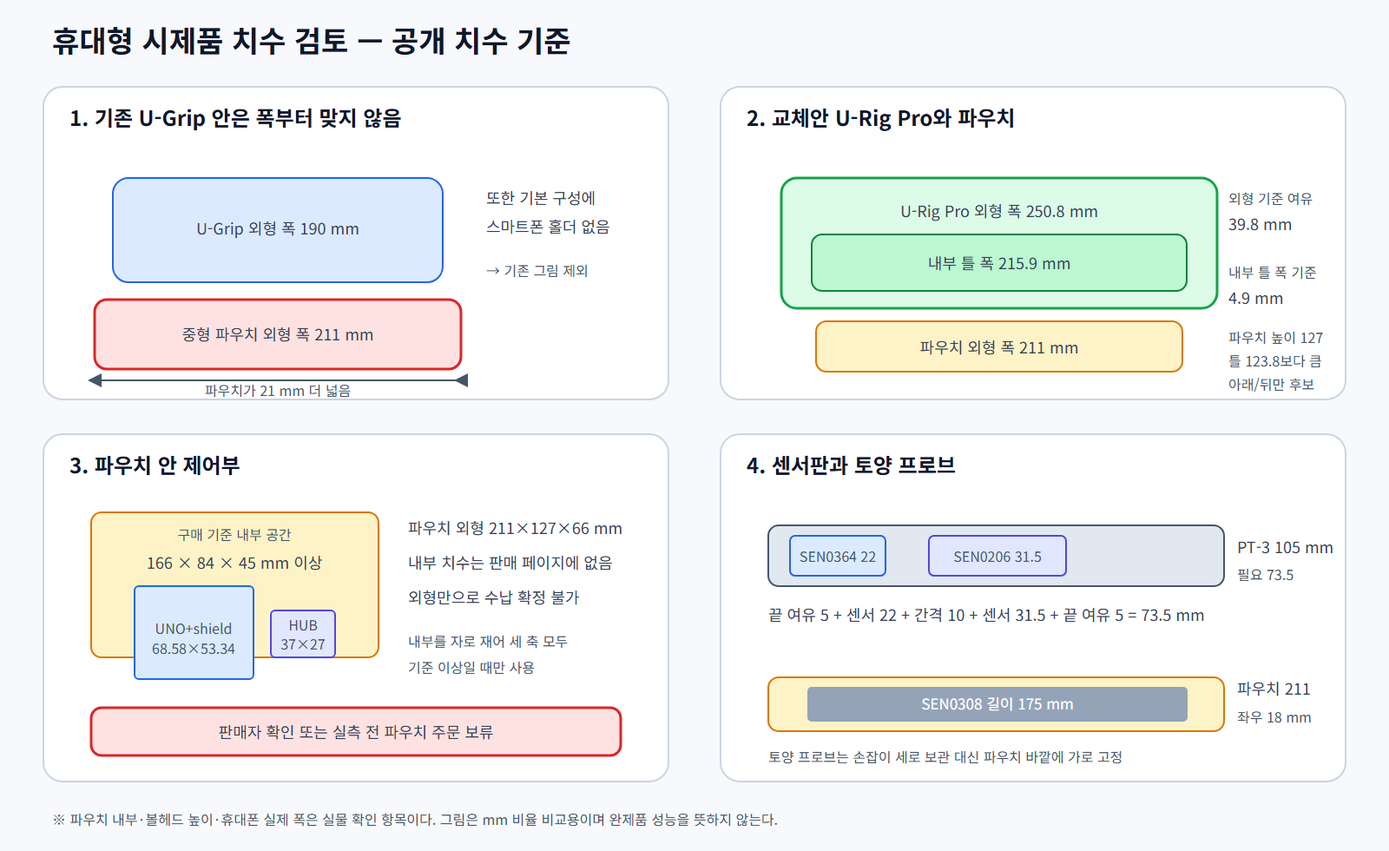
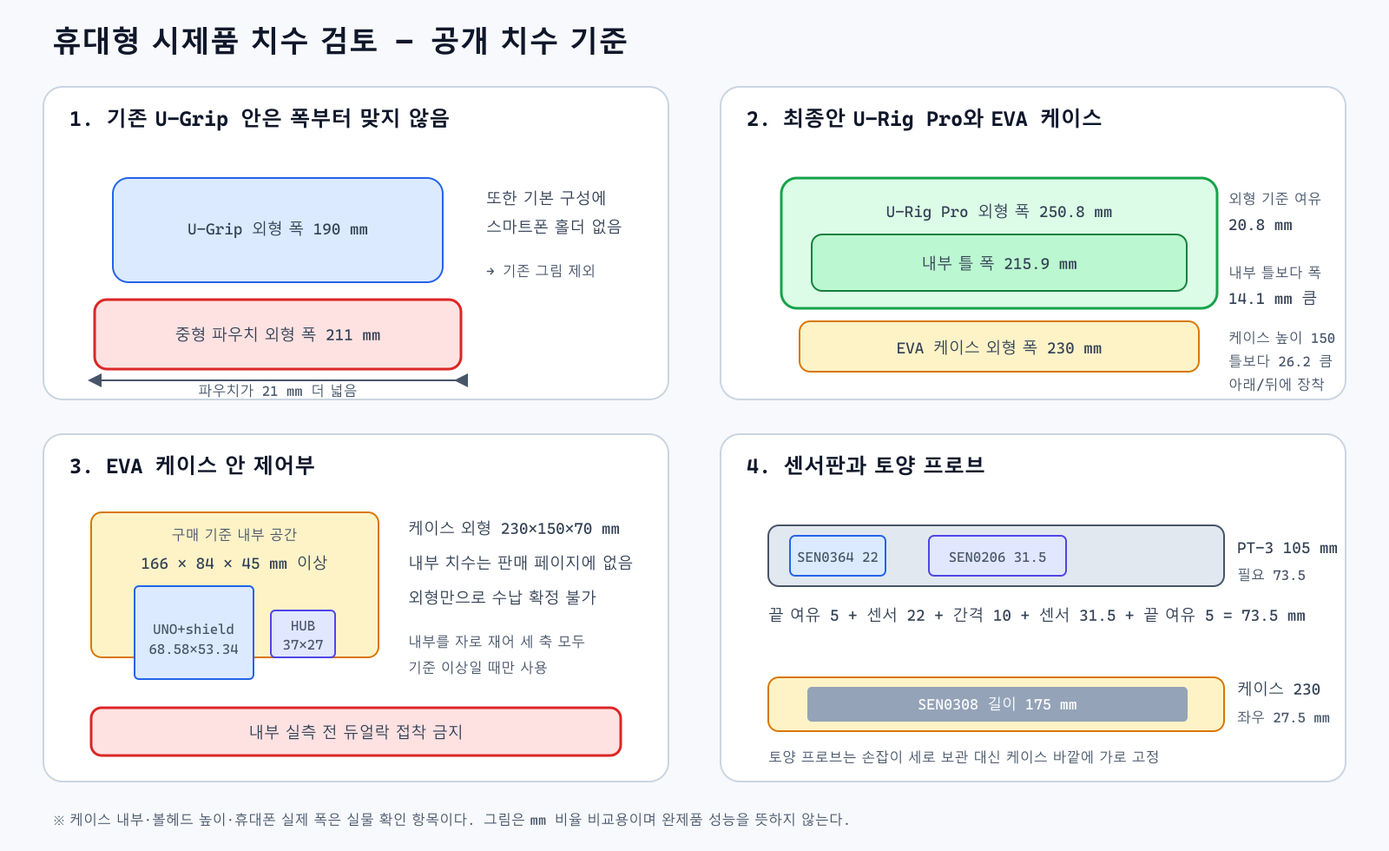
docs: finalize verified purchase plan

diff --git a/docs/PURCHASE_PLAN.md b/docs/PURCHASE_PLAN.md
@@ -1,77 +1,68 @@
-# 구매안과 총 결제 예상액
+# 최종 구매 목록과 결제 예상액
 
-확인일: 2026-09-20. 주문·결제 전 판매 페이지 표시가를 기준으로 계산했다. 쿠폰·적립금은 차감하지 않았고, 일반 내륙 배송을 전제로 했다. Codex는 사용자 확정 단가인 1개 159,000원을 적용했다. 가격·재고·묶음배송은 결제 직전 장바구니에서 다시 확인한다.
+확인일: 2026-09-20. 아래 금액은 판매 페이지에서 다시 확인한 표시가와 일반 내륙 배송비를 합산한 **보수적 결제 예상액**이다. 쿠폰·적립금·와우회원 무료배송은 적용하지 않았다. 결제 직전 선택 옵션, 재고, 배송비를 다시 대조하고 영수증에는 실제 카드 승인액을 기록한다.
 
-이 문서는 **현재 허용된 품목의 실제 구매 예상액**이다. 과거 제출안의 조건부 상한 491,890원과 합치거나 500,000원을 모두 쓰기 위한 표가 아니다. 과거 491,890원 안에는 이후 제외한 전자저울·검증 전 광원·암백·굴절계와 견적 전 제작·배송 상한이 들어 있다. 그 안에 Codex 159,000원을 단순 추가하면 650,890원으로 지원금을 150,890원 초과하므로 현재 구매안으로 사용할 수 없다.
+## 1. 전자부품·계정
 
-## 먼저 결제할 공통 항목
+| 번호 | 품목·정확한 모델 | 수량 | 상품가 | 배송비 반영 | 결제 예상 | 상세 판매 URL | 결제 전 확인 |
+|---:|---|---:|---:|---:|---:|---|---|
+| 1 | Arduino UNO R4 Minima, ABX00080 | 1 | 29,600원 | 3,500원 | **33,100원** | [로봇사이언스](https://robotscience.kr/goods/view?no=20942) | 국내 재고 표시와 ABX00080 확인 |
+| 2 | Gravity IO Expansion Shield V7.1, DFR0265 | 1 | 8,910원 | 2,700원 | **11,610원** | [디바이스마트](https://www.devicemart.co.kr/goods/view?no=1111779) | 아래 DFR0759와 한 주문. 평균 1주·주문품·반품 제한 확인 |
+| 3 | Gravity I2C HUB, DFR0759 | 1 | 2,640원 | 위 주문에 포함 | **2,640원** | [디바이스마트](https://www.devicemart.co.kr/goods/view?no=13192218) | 제조사 구성품의 4핀 I2C 케이블 1개 포함 여부를 수령 때 확인 |
+| 4 | Gravity 방수 정전용량 토양수분 센서, SEN0308 | 1 | 24,090원 | 4종 묶음 무료 | **24,090원** | [아이씨뱅큐](https://www.icbanq.com/P011849207) | 1.5 m 일체형 3핀 케이블·아날로그 출력 제품 |
+| 5 | Gravity SHT31-F 온습도 센서, SEN0334 | 1 | 15,950원 | 위와 묶음 | **15,950원** | [아이씨뱅큐](https://www.icbanq.com/P011442766) | 4핀 I2C 케이블 포함 제품인지 수령품 대조 |
+| 6 | Gravity AS7341 11채널 광학 센서, SEN0364 | 1 | 28,270원 | 위와 묶음 | **28,270원** | [아이씨뱅큐](https://www.icbanq.com/P013130496) | 4핀 I2C 케이블 포함 제품인지 수령품 대조 |
+| 7 | Gravity MLX90614 비접촉 표면온도 센서, SEN0206 | 1 | 29,810원 | 위와 묶음 | **29,810원** | [아이씨뱅큐](https://www.icbanq.com/P007606154) | JST PH2.0 4핀 케이블 포함 제품인지 수령품 대조 |
+| 8 | Coms USB-C↔USB-C 데이터 케이블 1 m, FC200 | 1 | 2,700원 | 3,000원 | **5,700원** | [컴스마트](https://www.comsmart.co.kr/cmart/shop/item.php?it_id=1601888323) | 충전 전용이 아닌 데이터 케이블 확인 |
+| 9 | Google Play 개발자 등록 | 1회 | 35,000원 예산 | 0원 | **35,000원** | [Google 공식 등록 안내](https://support.google.com/googleplay/android-developer/answer/6112435?hl=ko) | 공식 수수료는 USD 25. 원화 실제 승인액 기록 |
+| 10 | Codex 사용 예산 | 1개 | 159,000원 | 0원 | **159,000원** | [ChatGPT 공식 요금 페이지](https://chatgpt.com/pricing) | **사용자가 확정한 예산액**. 계정에서 실제 상품·기간·승인액 확인 |
+|  | **전자부품·계정 소계** |  |  |  | **345,170원** |  |  |
 
-| 품목 | 수량 | 상품가 | 배송비 | 구매 URL |
-|---|---:|---:|---:|---|
-| Arduino UNO R4 Minima / ABX00080 | 1 | 26,950원 | 3,000원 | [에듀이노](https://eduino.kr/product/detail.html?product_no=5054) |
-| Gravity DFR0265 V7.1 확장판 | 1 | 8,910원 | 2,700원 | [디바이스마트](https://www.devicemart.co.kr/goods/view?no=1111779) |
-| Gravity SEN0308 방수 토양수분 | 1 | 24,090원 | 센서 4종 묶음 무료 | [아이씨뱅큐](https://www.icbanq.com/P011849207) |
-| Gravity SEN0334 온습도 | 1 | 15,950원 | 위와 묶음 | [아이씨뱅큐](https://www.icbanq.com/P011442766) |
-| Gravity SEN0364 AS7341 광학 | 1 | 28,270원 | 위와 묶음 | [아이씨뱅큐](https://www.icbanq.com/P013130496) |
-| Gravity SEN0206 MLX90614 표면온도 | 1 | 29,810원 | 위와 묶음 | [아이씨뱅큐](https://www.icbanq.com/P007606154) |
-| Gravity DFR0759 I²C HUB | 1 | 15,200원 | 3,000원 | [일렉솔루션](https://elecsolution.co.kr/product/dfrobot-gravity-i2c-hub-dfr0759-디에프로봇/16496/) |
-| Coms FC200 USB-C 데이터 케이블 1 m | 1 | 2,700원 | 3,000원 | [컴스마트](https://www.comsmart.co.kr/cmart/shop/item.php?it_id=1601888323) |
-| **전자부품 상품 합계** | | **151,880원** | | |
-| **전자부품 배송 합계** | | | **11,700원** | 아이씨뱅큐 4종은 한 번에 주문 |
-| Google Play 개발자 등록 예산 | 1회 | 35,000원 | 0원 | [Google 공식 안내](https://support.google.com/googleplay/android-developer/answer/6112435?hl=ko) |
-| Codex 사용 예산 | 1개 | 159,000원 | 0원 | 사용자 확정 단가 |
-| **휴대형 기구 제외 공통 결제 예상액** | | **357,580원** | | |
+SEN0334·SEN0364·SEN0206은 제조사 출고 목록에 각각 4핀 I2C 케이블 1개가 포함되고, DFR0759에도 입력 연결용 4핀 케이블 1개가 포함된다. 따라서 판매처가 제조사 정품 구성 그대로 출고하면 별도 Gravity 케이블을 추가할 필요가 없다. 개봉 즉시 케이블 4개를 세어 보고, 누락됐을 때만 판매처에 구성품 누락을 문의한다.
 
-Google 공식 수수료는 USD 25다. 35,000원은 사용자가 정한 원화 예산이므로 카드의 실제 원화 승인액과 차이가 나면 정산표에는 승인액을 기록한다.
+## 2. 공구 없이 조립하는 휴대형 본체
 
-## 공구 없이 조립하는 휴대형 시제품
+| 번호 | 품목·선택 옵션 | 수량 | 상품가 | 배송비 반영 | 결제 예상 | 상세 판매 URL | 용도·확인 |
+|---:|---|---:|---:|---:|---:|---|---|
+| 11 | Ulanzi U-Rig Pro 스마트폰 비디오 리그 | 1 | 14,000원 | 무료 | **14,000원** | [쿠팡, item 21476334041](https://www.coupang.com/vp/products/7866103945?itemId=21476334041&vendorItemId=88530574086) | 휴대폰 케이스 포함 폭 50.8~88.9 mm인지 먼저 측정 |
+| 12 | EVA 하드 케이스 **23×15×7 cm** | 1 | 9,790원 | 무료 | **9,790원** | [쿠팡, item 22540917108](https://www.coupang.com/vp/products/7994370142?itemId=22540917108&vendorItemId=95318532894) | 외형 치수. 접착 전 내부 166×84×45 mm 이상인지 실측 |
+| 13 | 3M 듀얼락, 폭 25 mm·길이 50 cm×2개 | 1세트 | 7,860원 | 3,000원 | **10,860원** | [쿠팡, item 23419215213](https://www.coupang.com/vp/products/8187782258?itemId=23419215213&vendorItemId=90446254607) | 상품명과 상세의 길이 표기가 달라 **50 cm 2개 구성**을 결제 화면에서 확인 |
+| 14 | 편조 케이블 슬리브, 12 mm×1 m | 1 | 600원 | 3,000원 | **3,600원** | [쿠팡, 12 mm×1 m 옵션](https://www.coupang.com/vp/products/8730246303) | 선택 옵션 재확인 |
+| 15 | 미니 볼헤드·1/4인치 콜드슈 어댑터 | 1 | 1,890원 | 3,000원 | **4,890원** | [쿠팡](https://www.coupang.com/vp/products/8663301942) | 1/4인치 나사와 콜드슈 발 확인 |
+| 16 | Ulanzi PT-3 트리플 콜드슈 확장판 | 1 | 14,500원 | 3,000원 | **17,500원** | [쿠팡](https://www.coupang.com/vp/products/7852046163) | SEN0364·SEN0206 부착판 |
+| 17 | T형 탈부착 벨크로 케이블 타이 20개 | 1세트 | 4,600원 | 무료 | **4,600원** | [쿠팡](https://www.coupang.com/vp/products/9101303418) | 케이스·케이블·토양 프로브 고정 |
+|  | **휴대형 본체 소계** |  |  |  | **65,240원** |  |  |
 
-권총형 전용 외장이나 구멍 가공을 하지 않는다. 기존 U-Grip Pro는 스마트폰 홀더가 별도이고 폭 190 mm로 중형 파우치 211 mm보다 좁아 구매안에서 제외했다. 스마트폰 클램프가 내장된 U-Rig Pro에 지퍼형 전자기기 파우치를 벨크로로 묶고, 센서 보드는 콜드슈 확장판에 듀얼락으로 붙인다. 보드와 확장판은 손으로 눌러 결합하고 콜드슈 노브도 손으로 조인다. 아래 가격은 별도 배송이 생기는 경우까지 포함한 상한이다.
+하드 케이스는 U-Rig Pro의 중앙 촬영 공간 안에 넣지 않고 아래/뒤에 벨크로 타이로 고정한다. 판매 페이지가 내부 치수를 제공하지 않으므로 수령 후 내부 세 축을 재고, 기준을 통과하기 전에는 듀얼락을 붙이지 않는다. 케이블은 지퍼 틈으로 빼며 구멍을 뚫지 않는다.
 
-| 품목 | 용도 | 상품가 | 배송비 상한 | 결제 상한 | 구매 URL |
-|---|---|---:|---:|---:|---|
-| Ulanzi U-Rig Pro | 내장 휴대폰 클램프·양손 손잡이·콜드슈 바탕 | 14,000원 | 0원 | 14,000원 | [쿠팡, 테이크컴퍼니 판매](https://www.coupang.com/vp/products/7866103945?itemId=21476334041&vendorItemId=88530574086) |
-| Youngshion 전자기기 파우치 중형 | UNO·확장판·허브 수납. 내부 166×84×45 mm 이상 확인 전 주문 보류 | 12,900원 | 0원 | 12,900원 | [쿠팡, 외형 21.1×12.7×6.6 cm](https://www.coupang.com/vp/products/9337006917?categoryId=497063&itemId=27687497713&sourceType=CATEGORY&vendorItemId=94649407140) |
-| 3M 듀얼락 SJ3550 50 mm×5 cm | 파우치 안 보드·센서 보드 탈착 고정 | 650원 | 3,000원 | 3,650원 | [쿠팡](https://www.coupang.com/vp/products/8532075689) |
-| 편조 케이블 슬리브 12 mm×1 m | 센서선을 한 줄로 정리 | 600원 | 3,000원 | 3,600원 | [쿠팡](https://www.coupang.com/vp/products/8730246303) |
-| 미니 볼헤드·1/4인치 콜드슈 어댑터 | 확장판 각도 고정, 손노브 체결 | 4,990원 | 0원 | 4,990원 | [쿠팡](https://www.coupang.com/vp/products/8663301942) |
-| Ulanzi PT-3 트리플 콜드슈 | 광학·표면온도 보드 부착판 | 15,000원 | 2,500원 | 17,500원 | [쿠팡](https://www.coupang.com/vp/products/7852046163) |
-| T형 탈부착 벨크로 타이 20개 | 파우치·토양 프로브 고정 | 4,600원 | 0원 | 4,600원 | [쿠팡](https://www.coupang.com/vp/products/9101303418) |
-| **공구 없는 휴대형 시제품 합계** | | **52,740원** | **8,500원** | **61,240원** | |
+## 3. 흙·화분이 포함된 완성 식물 2개
 
-볼헤드는 아래 화분·배양토와 같은 로켓배송 주문에 담아 상품 합계 28,920원으로 무료배송 기준 19,800원을 넘기는 계산이다. 별도로 주문하거나 로켓배송 조건이 바뀌면 배송비가 추가된다. 휴대폰은 케이스를 씌운 폭이 U-Rig Pro 클램프 범위 50.8~88.9 mm인지 먼저 잰다. 파우치는 판매 페이지에 내부 치수가 없으므로 판매자 답변 또는 실물 내부가 166×84×45 mm 이상일 때만 사용한다. 지퍼 틈으로 케이블을 빼며, 물이 튀는 환경에서는 사용하지 않는다. 세부 산식은 [HARDWARE_FIT_CHECK](HARDWARE_FIT_CHECK.md)에 있다.
+| 번호 | 품목 | 수량 | 상품가 | 배송비 반영 | 결제 예상 | 상세 판매 URL | 용도·확인 |
+|---:|---|---:|---:|---:|---:|---|---|
+| 18 | 흙·화분 포함 방울토마토 완성 식물 | 1 | 4,000원 | 같은 판매자 묶음 4,000원 | **8,000원** | [엑스플랜트, 상품 1743415390](https://www.xplant.co.kr/item/1743415390) | 재고·구매 가능 표시. 기본 화분 모양과 크기는 달라질 수 있음 |
+| 19 | 흙·화분·받침 포함 스킨답서스, 표시 32×13×13 cm | 1 | 22,000원 | 위 묶음에 포함 | **22,000원** | [엑스플랜트, 상품 1716034533](https://www.xplant.co.kr/item/1716034533) | 같은 판매자 `플랜토피아`인지 확인해 배송 1회 적용 |
+|  | **완성 식물 소계** |  |  |  | **30,000원** |  |  |
 
-## 확정안: 식물 4개체, 대추방울토마토 2개체 + 바질 2개체
+두 식물은 2026-11-30까지 센서값이 들어오고 앱→서버→AI→결과 흐름이 동작함을 보여 주는 시연·참고 기록용이다. 모델 학습 표본 수나 독립 성능평가 표본으로 세지 않는다. 토양 프로브는 화분 흙에 무리 없이 들어가는 식물에서만 사용하고, 방울토마토 화분이 작거나 뿌리가 빽빽하면 스킨답서스에서 토양수분을 시연한다.
 
-작물마다 서로 다른 개체를 학습용 수집과 독립시험에 사용할 수 있도록 각 2개체로 구성한다. 판매 중인 대추방울토마토가 왜성·파티오 품종이라는 근거가 없으므로 토마토는 약 25 L 부직포 화분과 90 cm 지지대를 사용한다. 바질은 기존 18×25 cm 화분을 사용한다. 50 L 상토와 10 L 배양토를 함께 사서 최대 약 60 L를 확보한다.
+## 총액
 
-| 품목 | 수량 | 계산액 | 구매 URL |
-|---|---:|---:|---|
-| 대추방울토마토(빨강) 모종 | 2개 | 5,980원 | [옥션, 모종시장모종114](https://itempage3.auction.co.kr/DetailView.aspx?itemno=B829834013) |
-| 바질 허브 모종 | 2개 | 7,980원 | [옥션, 모종시장모종114](https://itempage3.auction.co.kr/DetailView.aspx?itemno=B822602679) |
-| 식물 묶음배송 | 1회 | 3,500원 | 같은 옥션 판매자 상품이며 두 판매 페이지 모두 묶음배송 가능 표시 |
-| 토마토용 부직포 화분 35호, 약 30×35×30 cm | 2개 | 13,480원 | [쿠팡, 세인화분 35호 옵션](https://www.coupang.com/vp/products/8272643213) |
-| 바질용 18×25 cm 화분+받침 | 2개 | 16,900원 | [쿠팡 데일드 2세트](https://www.coupang.com/vp/products/8675853865?vendorItemId=94615366568) |
-| 원예용 상토 50 L | 1개 | 14,400원 | [쿠팡 한아름 원예용 상토](https://www.coupang.com/vp/products/8373644053?vendorItemId=84423614460) |
-| 배양토 10 L | 1개 | 7,030원 | [쿠팡 Baroker 배양토](https://www.coupang.com/vp/products/8409428712?itemId=24313677839&vendorItemId=91329498657) |
-| 토마토 지지대 90 cm×8 mm | 2개 | 1,300원 | [쿠팡 파파가든](https://www.coupang.com/vp/products/7823366708?itemId=21256573273&vendorItemId=88317008741) |
-| 지지대 배송 | 1회 | 2,800원 | 판매 페이지 표시 배송비 |
-| 화분·10 L 흙·볼헤드 배송 | | 0원 | 같은 로켓배송 주문으로 무료배송 기준 확인 |
-| 50 L 상토 배송 | | 0원 | 판매 페이지 무료배송 표시 |
-| **식물·재배 준비 합계** | | **73,370원** | |
-| **휴대형 추가 전 총액** | | **430,950원** | |
-| **공구 없는 휴대형 시제품 포함 총 계획액** | | **492,190원** | 500,000원 중 7,810원 남음 |
+| 구분 | 금액 |
+|---|---:|
+| 전자부품·계정 | 345,170원 |
+| 휴대형 본체 | 65,240원 |
+| 완성 식물 2개 | 30,000원 |
+| **총 결제 예상액** | **440,410원** |
+| 학교 지원액 | 500,000원 |
+| **남는 예산** | **59,590원** |
 
-## 결론
+듀얼락 배송비 3,000원이 장바구니 묶음이나 회원 혜택으로 무료가 되면 실제 예상액은 437,410원이고 잔액은 62,590원이다. 본 표는 그 혜택을 가정하지 않은 440,410원을 제출·구매 기준으로 사용한다. 남는 돈을 맞추려고 전자저울, 유료 서버 저장소, 별도 광원, 센서 복제품, 추가 식물을 넣지 않는다.
 
-확정 구매계획은 Codex 1개와 공구 없이 조립할 휴대형 기구를 포함한 **식물 4개체안 492,190원**이다. 자체 재배 대상은 과실 작물인 대추방울토마토 2개체와 잎 작물인 바질 2개체다. 토마토용 35호 부직포 화분은 표시 치수로 계산하면 약 25 L이며, 바질 화분은 높이 25 cm다. 모두 길이 약 175 mm인 SEN0308 프로브를 시험할 깊이를 확보한다. 센서는 화분마다 사지 않고 한 개를 옮겨 측정하며, 매 측정의 작물·개체 ID·삽입 위치·시각을 기록한다.
+## 결제 순서와 중단 조건
 
-지원금 잔액은 **7,810원**이며 현재 미배정이다. 파우치 12,900원은 위 총액에 포함했지만, 판매자에게 내부 치수 166×84×45 mm 이상을 확인하기 전에는 결제하지 않는다. 파우치를 보류한 상태의 나머지 항목 합계는 479,290원이다. 남은 지원금을 맞추려고 전자저울, 유료 서버 저장소, 검증 전 광원, 센서 복제품을 추가하지 않는다. 결제 시 가격이 오르거나 실내 재배용 물받이가 필요하면 잔액을 우선 사용하고, 500,000원을 넘으면 파우치를 보류한다.
-
-## 결제 순서
-
-1. 휴대폰 케이스 포함 폭이 50.8~88.9 mm인지 잰다. 범위를 벗어나면 U-Rig Pro를 주문하지 않는다.
-2. Arduino·확장판·센서·허브·USB 케이블과 U-Rig Pro·PT-3·고정부품, 대추방울토마토 2개·바질 2개 모종을 주문한다.
-3. 토마토용 35호 부직포 화분, 바질용 화분, 상토·배양토·지지대와 미니 볼헤드를 담고 각 배송 조건을 확인한다.
-4. 파우치는 판매자가 내부 치수 166×84×45 mm 이상이라고 답한 뒤 주문한다. 답을 받지 못하거나 작으면 크기 기준을 만족하는 다른 파우치로 교체하고 총액을 다시 계산한다.
-5. 결제 화면의 상품가·배송비가 이 표와 다르면 결제하지 않고 표와 예산을 먼저 갱신한다.
+1. 휴대폰 케이스 포함 폭이 50.8~88.9 mm인지 확인한다. 벗어나면 U-Rig Pro를 결제하지 않는다.
+2. 납기가 긴 디바이스마트·아이씨뱅큐 부품을 먼저 주문한다. DFR0265·DFR0759는 주문품/반품 제한을 확인한다.
+3. 전자부품을 받으면 DFR0759 입력 케이블 1개와 I2C 센서용 케이블 3개, SEN0308 일체형 케이블을 대조한다.
+4. EVA 케이스를 받은 뒤 내부가 166×84×45 mm 이상인지 잰다. 작으면 접착하지 않고 교환한다.
+5. 엑스플랜트 두 식물은 같은 판매자 장바구니에 함께 담아 배송비가 1회 4,000원인지 확인한다.
+6. 결제 화면의 옵션·상품가·배송비 합계가 표와 다르면 결제를 멈추고 총액을 다시 계산한다. 500,000원을 넘는 경우 임의 품목을 추가·삭제하지 말고 변경 근거를 기록한다.

diff --git a/docs/HARDWARE.md b/docs/HARDWARE.md
@@ -14,37 +14,37 @@
 - [권장 휴대형 통합안](assets/hardware-06-handheld-concept.png): 휴대폰 거치대·손잡이형 본체·통합 측정 헤드·분리형 토양 프로브.
 - [휴대형 측정 순서](assets/hardware-handheld-workflow.svg) / [PNG](assets/hardware-07-handheld-workflow.png)
 - [공구 없이 조립한 시제품 예상 모습](assets/hardware-08-tool-free-prototype.png): 치수 검토 전 만든 이전 U-Grip 시각화이며 구매·장착 근거로 사용하지 않는다.
-- [실제 치수 대조](HARDWARE_FIT_CHECK.md) / [PNG](assets/hardware-fit-check.png) / [SVG](assets/hardware-fit-check.svg): U-Grip 제외 이유, U-Rig Pro·파우치·보드·센서판의 mm 계산과 실물 통과 조건.
-- [공구 없는 조립·장착 상세 안내](HARDWARE_ASSEMBLY_GUIDE.md): 부품 확인부터 센서 배선·파우치 수납·그립 장착·측정까지 5단계 그림과 점검표.
+- [실제 치수 대조](HARDWARE_FIT_CHECK.md) / [PNG](assets/hardware-fit-check.png) / [SVG](assets/hardware-fit-check.svg): U-Grip 제외 이유, U-Rig Pro·EVA 하드 케이스·보드·센서판의 mm 계산과 실물 통과 조건.
+- [공구 없는 조립·장착 상세 안내](HARDWARE_ASSEMBLY_GUIDE.md): 부품 확인부터 센서 배선·케이스 수납·그립 장착·측정까지 5단계 그림과 점검표.
 
 ## 사용성 개선 권장 구조
 
 초기 분산형 배치처럼 센서 보드를 각각 케이블 끝에 매달지 않는다. 사용자가 한 장치로 같은 대상의 사진과 실측을 순서대로 얻을 수 있도록 다음 기구 구성을 권장한다.
 
 - 휴대폰은 가장자리 클램프로 고정하고 후면 카메라를 가리지 않는다. 본체와는 짧은 USB-C 데이터 케이블 하나만 연결한다.
-- UNO R4 Minima·DFR0265·DFR0759는 U-Rig Pro 아래 가로대에 묶은 파우치 안에 고정한다. 파우치 내부가 166×84×45 mm 이상일 때만 사용한다.
+- UNO R4 Minima·DFR0265·DFR0759는 U-Rig Pro 아래 가로대에 묶은 EVA 하드 케이스 안에 고정한다. 케이스 내부가 166×84×45 mm 이상일 때만 사용한다.
 - SEN0364 광학과 SEN0206 표면온도는 전면 측정 헤드에 나란히 고정한다. 짧은 차광 후드와 교체 가능한 거리 스페이서를 사용하되 최종 길이는 반복성 시험 뒤 확정한다.
 - SEN0334 온습도는 본체 옆 통풍구 안쪽에 두어 외기와 통하게 하고 물방울·직사광은 막는다.
-- SEN0308 토양수분 프로브는 한 개만 사용한다. 이동 중에는 211 mm 폭 파우치 바깥에 175 mm 프로브를 가로로 묶고, 측정할 때 분리해 흙에 삽입한다. 전자부와 커넥터는 흙·물 밖에 둔다.
+- SEN0308 토양수분 프로브는 한 개만 사용한다. 이동 중에는 230 mm 폭 케이스 바깥에 175 mm 프로브를 가로로 묶고, 측정할 때 분리해 흙에 삽입한다. 전자부와 커넥터는 흙·물 밖에 둔다.
 - 센서 케이블은 본체 안이나 보호 슬리브 한 줄로 정리하고 각 출구에 당김 방지를 둔다.
 
 권장 사용 순서는 `앱에서 대상 선택 → 후면 카메라로 사진 촬영 → 같은 잎/과실에 전면 헤드를 맞춰 광학·표면온도 측정 → 토양 프로브 삽입 측정 → 같은 검사 ID로 저장·전송`이다. 토양 측정이 필요 없는 시험에서는 앱이 해당 값을 `null`로 기록하며 임의로 0을 넣지 않는다.
 
-이 휴대형 외형은 기구 설계 초안이다. 공개 치수 계산은 [HARDWARE_FIT_CHECK](HARDWARE_FIT_CHECK.md)에 기록했다. 휴대폰 케이스 포함 폭, 파우치 내부, 아래 가로대의 실제 스트랩 위치를 재고 통과한 뒤 조립한다. 핀·전압·주소는 아래 전기 연결표를 그대로 따른다.
+이 휴대형 외형은 기구 설계 초안이다. 공개 치수 계산은 [HARDWARE_FIT_CHECK](HARDWARE_FIT_CHECK.md)에 기록했다. 휴대폰 케이스 포함 폭, EVA 케이스 내부, 아래 가로대의 실제 스트랩 위치를 재고 통과한 뒤 조립한다. 핀·전압·주소는 아래 전기 연결표를 그대로 따른다.
 
 ### 공구 없이 직접 만드는 시제품 구조
 
 위 그림의 매끈한 권총형 외장은 사용 형태를 보여 주는 개념도이며 그대로 제작하는 설계도가 아니다. 제출 기간 안에 직접 조립할 시제품은 드라이버·드릴·납땜 없이 다음 순서로 만든다.
 
 1. 휴대폰 케이스 포함 폭이 50.8~88.9 mm인지 잰 뒤 Ulanzi U-Rig Pro의 내장 클램프에 끼운다.
-2. UNO에 DFR0265를 핀 위치에 맞춰 손으로 수직 장착한다. UNO·확장판과 DFR0759 뒷면에 듀얼락을 붙여 중형 전자기기 파우치 안쪽에 눌러 고정한다.
-3. 내부가 166×84×45 mm 이상인 파우치를 U-Rig Pro 아래 가로대의 뒤/아래에 T형 벨크로 타이 두 개로 감아 고정한다. 중앙 촬영 공간 안에 억지로 끼우지 않는다. 지퍼는 케이블 두께만큼만 열고 USB와 센서 케이블을 빼낸다.
+2. UNO에 DFR0265를 핀 위치에 맞춰 손으로 수직 장착한다. UNO·확장판과 DFR0759는 절연판에 벨크로로 고정하고, 절연판과 EVA 하드 케이스 안쪽만 듀얼락으로 고정한다.
+3. 내부가 166×84×45 mm 이상인 케이스를 U-Rig Pro 아래 가로대의 뒤/아래에 T형 벨크로 타이 두 개로 감아 고정한다. 중앙 촬영 공간 안에 억지로 끼우지 않는다. 전용 케이블 구멍이 없으므로 뚫지 않고 지퍼를 케이블 두께만큼만 열어 USB와 센서 케이블을 빼낸다.
 4. U-Rig Pro 위 콜드슈에 미니 볼헤드를 끼우고 손노브로 조인다. 그 위에 PT-3 확장판을 손으로 돌려 고정한다.
 5. SEN0364와 SEN0206 뒷면을 PT-3 위에 듀얼락으로 나란히 붙인다. 측정 창과 커넥터를 막지 않는다. 두 센서는 같은 잎이나 과실을 향하게 볼헤드 각도를 손으로 조정한다.
-6. SEN0334는 파우치 밖의 벨크로 고리에 고정해 공기가 통하게 한다. SEN0308은 마른 상태에서 파우치 바깥 전면에 가로로 타이 두 개를 사용해 보관하고 측정할 때만 풀어 화분마다 옮긴다.
+6. SEN0334는 케이스 밖의 벨크로 고리에 고정해 공기가 통하게 한다. SEN0308은 마른 상태에서 케이스 바깥 전면에 가로로 타이 두 개를 사용해 보관하고 측정할 때만 풀어 화분마다 옮긴다.
 7. Gravity 완성 케이블은 편조 슬리브 한 줄로 묶는다. 슬리브 끝은 재사용 벨크로 타이로 잡아당김을 막는다.
 
-이 구성에는 십자드라이버·드릴·리머·볼트·납땜이 필요하지 않다. 듀얼락 접착면을 닦을 마른 천과 가위만 있으면 되며, 벨크로 타이가 맞는 길이면 가위도 필요 없다. 파우치는 생활 방수 재질이라도 지퍼 틈으로 케이블을 빼므로 방수 장치로 간주하지 않는다. 센서 보드가 밖으로 노출되는 시제품이므로 물을 주는 동안에는 장치를 떼어 둔다. 구매 상한과 링크는 [PURCHASE_PLAN](PURCHASE_PLAN.md)에 정리했다.
+이 구성에는 십자드라이버·드릴·리머·볼트·납땜이 필요하지 않다. 듀얼락 접착면을 닦을 마른 천과 가위만 있으면 되며, 벨크로 타이가 맞는 길이면 가위도 필요 없다. 케이스는 지퍼 틈으로 케이블을 빼므로 방수 장치로 간주하지 않는다. 센서 보드가 밖으로 노출되는 시제품이므로 물을 주는 동안에는 장치를 떼어 둔다. 구매 상한과 링크는 [PURCHASE_PLAN](PURCHASE_PLAN.md)에 정리했다.
 
 | 구성 | 연결 | 전원/주소 |
 |---|---|---|
@@ -66,7 +66,7 @@
 3. SEN0308은 빨강을 VCC 5V, 노랑을 A0, 제조사 배선도에 있는 검정 두 가닥을 모두 GND에 연결한다. 방수 프로브만 흙에 넣고 커넥터와 전자부는 물·흙 밖에 둔다.
 4. DFR0265 I²C 단자와 DFR0759 입력을 Gravity 완성 케이블로 연결한다. DFR0759는 USB 허브나 주소 변환기가 아니라 VCC/GND/SDA/SCL을 나누는 수동 분배판이다.
 5. DFR0759 출력에 SEN0334, SEN0364, SEN0206을 하나씩 연결한다. 커넥터의 VCC/GND/SDA/SCL 표기를 양쪽에서 확인하고 맞지 않는 방향으로 힘주어 꽂지 않는다.
-6. 내부 실측을 통과한 파우치에 UNO·DFR0265·DFR0759를 절연판과 벨크로로 고정한다. SEN0334는 물방울과 직사광을 피하면서 공기가 통하는 바깥 고리에 두고, SEN0364와 SEN0206은 PT-3 위에서 같은 잎이나 과실을 향하게 한다.
+6. 내부 실측을 통과한 케이스에 UNO·DFR0265·DFR0759를 절연판과 벨크로로 고정한다. SEN0334는 물방울과 직사광을 피하면서 공기가 통하는 바깥 고리에 두고, SEN0364와 SEN0206은 PT-3 위에서 같은 잎이나 과실을 향하게 한다.
 7. 지퍼 틈으로 나온 USB-C·센서 케이블에 벨크로 타이로 당김 방지를 만들고, 케이블이 지퍼에 눌리지 않게 한다. 케이블 출구는 실물 배치 뒤 정한다.
 8. 휴대폰을 마지막에 연결한다. 먼저 I²C scan에서 0x39, 0x44 또는 0x45, 0x5A를 확인하고 센서를 하나씩 읽은 뒤 전체 동시 읽기를 시험한다.
 9. USB host 지원 휴대폰에서 권한, 실제 수신, 총 소비전류, 분리·재연결을 시험한다. 전원이 불안정하면 임의 부품을 추가하기 전에 소비전류와 USB 역할 협상을 기록한다.

diff --git a/docs/HARDWARE_FIT_CHECK.md b/docs/HARDWARE_FIT_CHECK.md
@@ -1,6 +1,6 @@
 # 휴대형 시제품 치수 검토
 
-검토일: 2026-09-20. 판매 페이지가 공개한 **외형 치수**와 제조사 보드 치수를 대조했다. 파우치 내부 치수, 실제 스마트폰 케이스 폭, 볼헤드 높이는 공개되지 않았으므로 실물 확인 전에는 확정값으로 쓰지 않는다.
+검토일: 2026-09-20. 판매 페이지가 공개한 **외형 치수**와 제조사 보드 치수를 대조했다. EVA 하드 케이스 내부 치수, 실제 스마트폰 케이스 폭, 볼헤드 높이는 공개되지 않았으므로 실물 확인 전에는 확정값으로 쓰지 않는다.
 
 ![휴대형 부품 치수 대조](assets/hardware-fit-check.png)
 
@@ -12,46 +12,46 @@
 - U-Grip Pro 기본 구성에는 스마트폰 홀더가 없다. 별도 홀더를 사야 하므로 기존 구매표의 “휴대폰 클램프 포함” 설명이 틀렸다.
 - 길이 175 mm인 SEN0308을 U-Grip 손잡이에 세로로 보관하는 방법은 손잡이의 실제 직선 유효 길이가 공개되지 않아 확인할 수 없다.
 
-따라서 스마트폰 클램프가 내장되고 내·외형 치수가 공개된 **Ulanzi U-Rig Pro**로 교체한다. 중형 파우치는 아래 가로대의 뒤/아래에 가로로 묶는 후보로 두되, 내부 치수를 확인하기 전에는 주문하지 않는다. SEN0308은 손잡이가 아니라 파우치 바깥 전면에 가로로 묶는다.
+따라서 스마트폰 클램프가 내장된 **Ulanzi U-Rig Pro**와 외형 230×150×70 mm인 **EVA 하드 케이스**를 사용한다. 케이스는 중앙 틀 안이 아니라 아래 가로대의 뒤/아래에 가로로 묶는다. 내부 치수를 확인하기 전에는 접착재를 붙이지 않는다. SEN0308은 손잡이가 아니라 케이스 바깥 전면에 가로로 묶는다.
 
 ## 공개 치수와 계산
 
 | 부품 | 공개 치수 | 계산 결과 | 판정 |
 |---|---:|---|---|
-| U-Grip Pro | 190 × 200 × 78 mm | 파우치 211 mm가 그립 폭보다 21 mm 큼 | 기존안 제외 |
-| U-Rig Pro | 외형 250.8 × 44.5 × 130.2 mm, 내부 틀 215.9 × 44.5 × 123.8 mm | 파우치 폭 211 mm는 내부 틀 폭보다 4.9 mm 작지만, 파우치 높이 127 mm는 내부 틀 높이보다 3.2 mm 큼 | 틀 안 수납 불가, 아래/뒤 장착만 후보 |
+| U-Grip Pro | 190 × 200 × 78 mm | 과거 중형 파우치 211 mm가 그립 폭보다 21 mm 큼 | 기존안 제외 |
+| U-Rig Pro | 외형 250.8 × 44.5 × 130.2 mm, 내부 틀 215.9 × 44.5 × 123.8 mm | 케이스 폭 230 mm는 그립 외형보다 20.8 mm 작지만 내부 틀보다 14.1 mm 큼. 높이 150 mm도 내부 틀보다 26.2 mm 큼 | 틀 안 수납 불가, 아래/뒤 장착 |
 | U-Rig Pro 휴대폰 클램프 | 50.8~88.9 mm | 휴대폰 케이스 포함 폭이 88.9 mm 이하여야 함 | 주문 전 휴대폰 실측 |
-| Youngshion 중형 파우치 | **외형** 211 × 127 × 66 mm | 판매 페이지에 내부 치수·단단한 칸막이·케이블 홀이 없음 | 내부 실측 전 구매 보류 |
+| EVA 하드 케이스 | **외형** 230 × 150 × 70 mm | 판매 페이지에 내부 치수·케이블 홀이 없음 | 수령 후 내부 실측, 접착 전 확인 |
 | UNO R4 Minima | 68.58 × 53.34 mm | DFR0265는 UNO 위에 적층되어 평면 면적을 추가하지 않음 | 제어부 기준 면적 |
 | DFR0759 I²C HUB | 37 × 27 mm | UNO 옆에 10 mm 간격으로 놓으면 원시 배치 115.58 × 53.34 mm | 배치 가능 |
-| 제어부 권장 내부 여유 | 165.58 × 83.34 × 45 mm 이상 | 좌우 케이블 25 mm씩, 앞뒤 15 mm씩, 적층·절연 여유를 반영한 구매 기준 | 파우치 내부 치수로 확인 |
+| 제어부 권장 내부 여유 | 165.58 × 83.34 × 45 mm 이상 | 좌우 케이블 25 mm씩, 앞뒤 15 mm씩, 적층·절연 여유를 반영한 사용 기준 | 케이스 내부 치수로 확인 |
 | PT-3 센서판 | 길이 105 mm, 폭 약 30 mm | 아래 두 센서에 필요한 길이 73.5 mm, 남는 길이 31.5 mm | 길이 방향 장착 가능 |
 | SEN0364 | 22 × 20 mm |  |  |
 | SEN0206 | 31.5 × 18 mm | `끝 여유 5 + 22 + 간격 10 + 31.5 + 끝 여유 5 = 73.5 mm` |  |
 | SEN0334 | 32 × 22 mm | 측정 헤드가 아니라 공기가 통하는 바깥쪽에 별도 고정 | 가능, 실물 위치 확인 |
-| SEN0308 | 175 × 30 mm, 케이블 1.5 m | 파우치 폭 211 mm에 가로로 놓으면 총 36 mm, 좌우 18 mm씩 남음 | 가로 보관 채택 |
+| SEN0308 | 175 × 30 mm, 케이블 1.5 m | 케이스 폭 230 mm에 가로로 놓으면 총 55 mm, 좌우 27.5 mm씩 남음 | 가로 보관 채택 |
 
-제어부의 `165.58 × 83.34 × 45 mm`는 제품 치수가 아니라 **구매에 사용할 최소 내부 공간 기준**이다. 원시 보드 배치 `115.58 × 53.34 mm`에 케이블 굽힘과 절연 간격을 더했다. 파우치의 외형과 이 값을 비교해 “들어갈 것 같다”고 확정하지 않는다. 판매자에게 내부 치수를 확인하거나, 제품을 받은 즉시 자로 내부의 가로·세로·깊이를 재서 세 값이 모두 기준 이상일 때만 사용한다.
+제어부의 `165.58 × 83.34 × 45 mm`는 제품 치수가 아니라 **사용할 최소 내부 공간 기준**이다. 원시 보드 배치 `115.58 × 53.34 mm`에 케이블 굽힘과 절연 간격을 더했다. 케이스 외형과 이 값을 비교해 수납을 확정하지 않는다. 제품을 받은 즉시 자로 내부의 가로·세로·깊이를 재서 세 값이 모두 기준 이상일 때만 듀얼락을 붙이고 사용한다.
 
-파우치를 U-Rig Pro 아래에 겹침 없이 달았을 때 본체의 보수적 외형은 약 **250.8 mm(폭) × 66 mm(깊이) × 257.2 mm(높이)**다. 높이는 `U-Rig 130.2 + 파우치 127`로 계산했다. 실제로 가로대와 파우치가 겹치면 더 낮아진다. PT-3 길이 105 mm는 본체 폭 안에 들어오지만, 현재 볼헤드 판매 페이지가 높이를 제공하지 않아 측정 헤드까지 포함한 완성 높이는 실물 전에는 확정할 수 없다.
+케이스를 U-Rig Pro 아래에 겹침 없이 달았을 때 본체의 보수적 외형은 약 **250.8 mm(폭) × 70 mm(깊이) × 280.2 mm(높이)**다. 높이는 `U-Rig 130.2 + 케이스 150`으로 계산했다. 실제로 가로대와 케이스가 겹치면 더 낮아진다. PT-3 길이 105 mm는 본체 폭 안에 들어오지만, 현재 볼헤드 판매 페이지가 높이를 제공하지 않아 측정 헤드까지 포함한 완성 높이는 실물 전에는 확정할 수 없다.
 
 ## 조립 전 통과 조건
 
 1. 휴대폰 케이스 포함 폭이 50.8~88.9 mm이고, 클램프에 끼웠을 때 카메라와 USB-C 포트가 가려지지 않는다.
-2. 파우치 내부 실측이 166 × 84 × 45 mm 이상이다.
-3. 파우치를 빈 상태로 U-Rig Pro 아래 가로대에 타이 두 개로 묶었을 때 양쪽 손잡이와 스마트폰 조작을 막지 않는다.
+2. 케이스 내부 실측이 166 × 84 × 45 mm 이상이다.
+3. 케이스를 빈 상태로 U-Rig Pro 아래 가로대에 타이 두 개로 묶었을 때 양쪽 손잡이와 스마트폰 조작을 막지 않는다.
 4. UNO 적층 보드와 허브를 넣은 뒤 지퍼가 PCB·커넥터·케이블을 누르지 않는다.
 5. PT-3에 센서 두 개를 붙인 뒤 감지창, 커넥터, 콜드슈 체결부가 모두 노출된다.
-6. SEN0308을 파우치 바깥에 가로로 고정했을 때 금속 끝이 손잡이 밖으로 돌출되지 않는다.
-7. 모든 부품을 단 상태에서 30초간 양손으로 들고 천천히 기울여도 파우치·센서판·프로브가 움직이지 않는다.
+6. SEN0308을 케이스 바깥에 가로로 고정했을 때 금속 끝이 손잡이 밖으로 돌출되지 않는다.
+7. 모든 부품을 단 상태에서 30초간 양손으로 들고 천천히 기울여도 케이스·센서판·프로브가 움직이지 않는다.
 
-1~6 중 하나라도 실패하면 케이블을 억지로 꺾거나 지퍼를 눌러 닫지 않는다. 내부 기준을 만족한다고 확인된 더 큰 파우치로 교환하거나 제어부를 별도 휴대하고, 휴대폰이 맞지 않으면 U-Rig Pro 구매를 중단한다.
+1~6 중 하나라도 실패하면 케이블을 억지로 꺾거나 지퍼를 눌러 닫지 않는다. 내부 기준을 만족하는 더 큰 케이스로 교환하거나 제어부를 별도 휴대하고, 휴대폰이 맞지 않으면 U-Rig Pro 구매를 중단한다.
 
 ## 근거
 
 - [U-Grip Pro 규격과 별도 스마트폰 홀더](https://www.herogear.com.au/ulanzi-u-grip-pro-camera-handle-grip-with-1-4-20-t)
 - [U-Rig Pro 외형·내부 치수와 2~3.5인치 클램프](https://www.bhphotovideo.com/c/product/1487529-REG/ulanzi_0673_u_rig_pro_smartphone_video.html/specs)
-- [Youngshion 파우치 외형 치수](https://www.coupang.com/vp/products/9337006917?categoryId=497063&itemId=27687497713&sourceType=CATEGORY&vendorItemId=94649407140)
+- [EVA 하드 케이스 23×15×7 cm](https://www.coupang.com/vp/products/7994370142?itemId=22540917108&vendorItemId=95318532894)
 - [UNO R4 Minima 기구 도면](https://docs.arduino.cc/resources/datasheets/ABX00080-datasheet.pdf)
 - [DFR0759 37 × 27 mm](https://www.dfrobot.com/product-2179.html)
 - [PT-3 105 mm](https://prod.danawa.com/info/?pcode=6569448)

diff --git a/docs/PROJECT_SCOPE.md b/docs/PROJECT_SCOPE.md
@@ -12,13 +12,13 @@
 실제 자체 짝자료와 동일 시험 집합으로 RGB 단독·센서 단독·융합을 비교한다. 융합이 더 나쁘거나 판단을 보류하는 결과도 기록한다.
 
 ## 2026-09-20 예산 갱신
-사용자가 확정한 학교 지원액은 500,000원이고 Google Play 등록비 원화 예산은 35,000원, Codex 사용 예산은 1개 159,000원이다. 2026-09-20 판매 페이지 표시가와 일반 내륙 배송료를 다시 계산했다. 센서·Arduino·등록·Codex 등 휴대형 기구 제외 공통액은 357,580원이고, 드라이버·드릴·납땜 없이 조립하는 U-Rig Pro·파우치·센서판 구성은 61,240원이다. 개체 단위 분리를 위해 대추방울토마토와 바질을 각 2개체로 구성하고, 토마토용 약 25 L 화분·지지대와 바질용 화분·상토 총 60 L를 포함한 재배 준비액은 73,370원이다. 총 계획액은 492,190원이며 지원금 잔액은 7,810원이다. 파우치는 이 총액에 포함하지만 내부 치수 확인 전에는 결제를 보류한다. 세부 산식과 링크는 [PURCHASE_PLAN](PURCHASE_PLAN.md)에 있다.
+사용자가 확정한 학교 지원액은 500,000원이고 Google Play 등록비 원화 예산은 35,000원, Codex 사용 예산은 1개 159,000원이다. 판매 페이지 표시가와 일반 내륙 배송료를 다시 확인한 최종 구매 예상액은 440,410원이며 잔액은 59,590원이다. 구성은 전자부품·계정 345,170원, 드라이버·드릴·납땜 없이 조립하는 U-Rig Pro·EVA 하드 케이스·센서판 65,240원, 흙·화분이 포함된 방울토마토와 스킨답서스 완성 식물 각 1개 30,000원이다. 식물은 2026-11-30까지 센서·앱·서버·AI 왕복을 보여 주는 시연·참고 기록용이며 학습이나 독립 성능평가 표본으로 세지 않는다. 세부 산식과 판매 링크는 [PURCHASE_PLAN](PURCHASE_PLAN.md)에 있다.
 
 가격·재고·묶음배송은 결제 시 변할 수 있으며 실제 지출은 카드 승인액과 영수증으로 기록한다. 남는 지원금을 맞추기 위한 품목을 만들지 않는다. 전자저울과 근거 없는 유료 서버/저장소는 제외했으며, 서버의 저장·추론 기능은 로컬 개발부터 유지한다. 이 저장소에 서명·개인정보가 담긴 행정 원본은 넣지 않는다.
 
-현재 실제 구매 예상액 492,190원과 과거 조건부 제출안 491,890원은 숫자가 비슷하지만 산정 범위가 다르다. 491,890원에 Codex 159,000원을 더한 650,890원을 현 계획으로 사용하지 않는다. 실제 구매안에 포함하지 않은 품목과 견적 전 상한을 되살려 지원금 500,000원에 맞추지 않는다.
+과거 조건부 제출안 491,890원이나 과거 구매안 492,190원을 현 계획에 다시 사용하지 않는다. 과거 금액에 Codex 159,000원을 단순 추가하지 않으며, 실제 구매안에 포함하지 않은 품목과 견적 전 상한을 되살려 지원금 500,000원에 맞추지 않는다.
 
 ## 기술 선택안과 확인 필요
 Python 3.12/FastAPI, Android Kotlin/Compose, Python ML, Arduino C++를 시작안으로 선택했다. 팀이 언어·라이브러리를 이미 정했다면 기존 합의에 맞춰 최소 변경한다. SQLite는 로컬 시작안이며 운영 DB·호스팅·사용자 인증 방식·SDK/Gradle 버전은 후속 결정이다. 클라우드 무료 제공·GPU·모종/배양토 확보를 가정하지 않는다.
 
-표본 수·대상 상태·라벨 정답 근거·교정계수·정확도·실제 학기 시작일·계정 소유자·출시일은 미확정이다. 3주차까지 여건에 맞는 1차 검증범위를 결정한다. 기준 휴대폰 호환성과 원시/보정 단위도 실제 확인한다.
+표본 수·대상 상태·라벨 정답 근거·교정계수·정확도·실제 학기 시작일·계정 소유자·출시일은 미확정이다. 3주차까지 여건에 맞는 1차 검증범위를 결정한다. 기준 휴대폰 호환성과 원시/보정 단위도 실제 확인한다. 완성 식물 2개는 이 미확정 표본 수를 대신하지 않는다.

diff --git a/docs/DECISIONS.md b/docs/DECISIONS.md
@@ -8,7 +8,7 @@
 | 앱 | Kotlin / Compose | SDK·AGP·Gradle·JDK 호환 확인 후 생성 |
 | AI | Python 학습, 인터페이스 분리 | PyTorch RGB·scikit-learn 센서 후보, 실모델 미정 |
 | 센서 | UNO R4 Minima, USB JSONL | 패킷 규격 v0.1.0은 검토 초안 |
-| 휴대형 기구 | 내장 클램프 U-Rig Pro·지퍼형 파우치·PT-3 센서판·분리형 토양 프로브 | U-Grip은 별도 폰 홀더가 필요하고 파우치보다 좁아 제외. 파우치 내부 166×84×45 mm, 휴대폰 폭 50.8~88.9 mm를 확인한 뒤 벨크로·듀얼락·손노브 시제품 조립 |
+| 휴대형 기구 | 내장 클램프 U-Rig Pro·23×15×7 cm EVA 하드 케이스·PT-3 센서판·분리형 토양 프로브 | U-Grip은 별도 폰 홀더가 필요해 제외. 케이스 내부 166×84×45 mm, 휴대폰 폭 50.8~88.9 mm를 확인한 뒤 벨크로·듀얼락·손노브 시제품 조립 |
 | 데이터 | manifest+불변 원본+그룹 분할 | 실제 표본 수·시험비율 미정 |
 | 호스팅/스토리지 | 로컬 개발만 | 실제 서버·GPU·저장소·비용·권한 결정 필요 |
 | 공개 배포 | APK 테스트 후 Play 검토 | 계정/테스터·정책·서명키 관리 필요 |
@@ -16,8 +16,8 @@
 
 2026-09-19 사용자 결정: 모든 파트가 `main`에서 작업하고 검증한 단위마다 즉시 commit·push한다. 기존의 파트별 기능 브랜치 안내를 대체한다. 다른 사람이 먼저 올렸다면 내 커밋과 상대방 커밋을 병합하여 둘 다 보존한다. 상세 절차와 충돌 처리 기준은 [GIT_COMMITS](GIT_COMMITS.md)를 따른다.
 
-2026-09-20 치수 검토: U-Grip Pro는 스마트폰 홀더가 별도이며 190 mm 외형 폭보다 중형 파우치 211 mm가 넓어 제외했다. 내장 클램프와 내·외형 치수가 공개된 U-Rig Pro로 교체했다. 파우치 내부 치수와 실제 스트랩 위치는 공개 정보만으로 확정할 수 없어 [HARDWARE_FIT_CHECK](HARDWARE_FIT_CHECK.md)의 실물 통과 조건을 구매·조립 게이트로 둔다.
+2026-09-20 치수 검토: U-Grip Pro는 스마트폰 홀더가 별도이므로 제외하고 내장 클램프가 있는 U-Rig Pro로 교체했다. 제어부 케이스는 외형 230×150×70 mm인 EVA 하드 케이스를 사용한다. 내부 치수와 실제 스트랩 위치는 공개 정보만으로 확정할 수 없어 [HARDWARE_FIT_CHECK](HARDWARE_FIT_CHECK.md)의 실물 통과 조건을 조립 게이트로 둔다.
 
-2026-09-20 구매안 갱신: 개체 단위 분리·독립시험을 위해 자체 재배 대상을 대추방울토마토(빨강) 2개체와 바질 2개체로 확대했다. 두 모종은 같은 옥션 판매자의 묶음배송 1회를 적용한다. 왜성 토마토로 확인되지 않아 토마토에는 약 25 L 부직포 화분과 지지대, 바질에는 18×25 cm 화분을 배정하고 상토·배양토 총 60 L를 잡았다. 최신 표시가를 반영한 총 계획액은 492,190원이며, 내부 치수가 공개되지 않은 파우치는 예산에 포함하되 확인 전 결제를 보류한다.
+2026-09-20 최종 구매안 갱신: 모델 학습용 자체 재배와 식물 구매를 분리했다. 2026-11-30까지 센서·앱·서버·AI의 실제 왕복 시연에는 흙·화분이 포함된 방울토마토 1개와 스킨답서스 1개만 사용하며, 두 식물을 학습·독립평가 표본으로 세지 않는다. 표시가와 보수적 배송비 기준 총액은 440,410원, 잔액은 59,590원이다. 케이스는 예산에 포함하되 내부가 166×84×45 mm 이상인지 실측하기 전에는 접착하지 않는다.
 
 새 선택은 이유·대안·영향 파트·검증 결과를 날짜와 함께 기록한다. 현재 선택안을 이미 운영 중인 환경처럼 설명하지 않는다.

diff --git a/docs/STATUS.md b/docs/STATUS.md
@@ -22,4 +22,6 @@
 
 2026-09-19 로컬 검증: 저장소 .venv/Python 3.12.14, `scripts/check.py` 통과(52 pytest, 외부 의존성 경고 2개). `6b327f8` 최초 CI와 `e6888ee` Windows/Linux CI 통과. 후속 push의 최신 CI는 Actions에서 확인한다.
 
+2026-09-20 구매 문서 검증: 판매 페이지의 현재 표시가와 배송 조건을 다시 대조해 전자부품·계정 345,170원, 휴대형 본체 65,240원, 흙·화분 포함 완성 식물 2개 30,000원, 총 440,410원으로 정리했다. 500,000원 중 59,590원은 미배정이다. 케이스 내부와 휴대폰 폭은 실물 통과 조건이며, 실제 센서·휴대폰 통합시험은 아직 하지 않았다.
+
 개발 인계: [NEXT_STEPS](NEXT_STEPS.md), 최신 배선·조립도: [HARDWARE](HARDWARE.md), 구매 가격·총액: [PURCHASE_PLAN](PURCHASE_PLAN.md). 검증한 단위마다 main에서 commit하고 origin/main에 push한다. 다른 사람이 먼저 push했으면 양쪽 커밋을 보존하여 병합·재검증한 뒤 다시 push한다. 모든 작업 프롬프트와 Git 절차를 이 원칙으로 통일했다.
